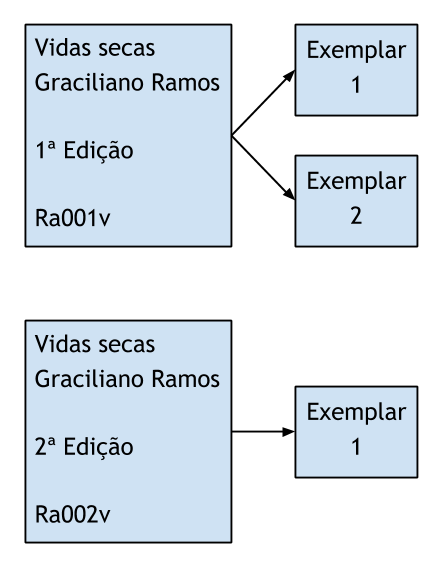
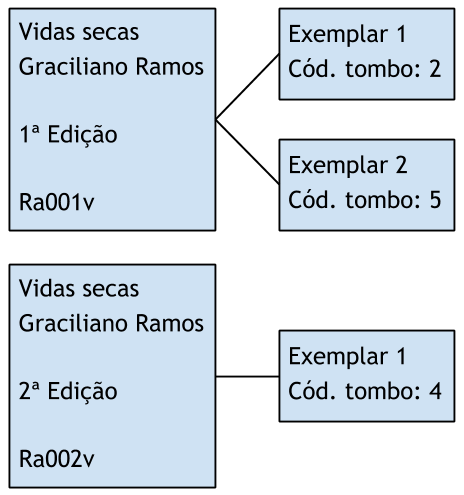
changed figure to describe the new tombo way and some Chris' fixes.

diff --git a/mono.tex b/mono.tex
@@ -312,9 +312,9 @@ Houve uma sobrecarga de tempo considerável nesta tarefa devido a uma falha no f
 \caption{Ilustração do modelo antigo de cadastro de exemplares da mesma obra.\label{tombo-antigo}}
 \end{figure}
 
-No entanto, percebeu-se durante o desenvolvimento do módulo que esta abordagem seria problemática por não dar ao aluno a escolha de qual edição da obra reservar. Além disso ela complicaria a organização da biblioteca física, pois o bibliotecário, ao ver apenas o código na lombada do livro, teria a falsa impressão de que existia uma relação de ordem entre os exemplares ao posicionar os livros em uma estante (o que não é necessariamente verdade), tendo dificuldade para separá-los por critérios mais relevantes, como volume e edição.
+No entanto, percebeu-se durante o desenvolvimento do módulo que esta abordagem seria problemática por não dar ao aluno a escolha de qual edição da obra reservar. Além disso, a abordagem anterior pode complicar a organização das obras na estante. No exemplo da Figura \ref{tombo-antigo}, o bibliotecário teria a falsa impressão de que existe uma relação de ordem entre os exemplares, devido à indexação final do código. Entretanto, é mais útil manter o acervo agrupado por edições ou volume da obra, e não ordenado por este código.
 
-Decidiu-se, então, considerar outras propriedades de uma publicação para definir a sua unicidade, sendo estas a editora, o ano de publicação, a edição e o volume. O formato do número de chamada continuou sendo o mesmo (duas letras do sobrenome do autor, três dígitos e uma letra do título da obra), no entanto a sequência de dígitos é única para a combinação da parte do código composta por caracteres com as quatro propriedades mencionadas acima. O código de tombo passou a ser uma entidade independente e é representada por um número inteiro. Este número é gerado pelo \textit{Drupal} no cadastro da publicação e indica o índice da página que representa o exemplar no conjunto de todas as páginas do sistema.  Isto é, o exemplar com código de tombo i é representado pela i-ésima página criada no sistema. A Figura \ref{tombo-novo} ilustra a mesma situação de cadastro usada como exemplo.
+A fim de se corrigir os problemas encontrados, duas ações foram tomadas. A primeira ação foi redefinir os critérios de unicidade de uma publicação. A partir de um conjunto mais amplo de características de uma obra, um \textit{número de chamada} é criado para cada publicação, e cada exemplar pertencente a uma publicação recebe um \textit{código de tombo} diferente. A nova regra de unicidade de uma obra agora inclui, a editora, o ano de publicação, e edição e o volume, além de título e nome do autor, que já eram considerados. A segunda ação foi separar por completo o \textit{número de chamada} e o \textit{código de tombo}, e não mais apresentá-lo na forma concatenada na lombada do livro. O formato do número de chamada continuou sendo o mesmo (duas letras do sobrenome do autor, três dígitos e uma letra do título da obra). O código de tombo continua sendo representado por número inteiro, mas é gerado de forma diferente. Na plataforma \textit{Drupal}, cada página de conteúdo criada recebe um identificador. No caso específico da página em questão representar um exemplar, esse identificador é também utilizado como código de tombo. Uma vez que o \textit{Drupal} provê um identificador de página único e autoincrementado, tem-se a garantia de não haver conflito entre códigos de tombo. A Figura \ref{tombo-novo} e a Tabela \ref{tabela-tombo-novo} ilustram a mesma situação de cadastro utilizada no exemplo anterior.
 
 \begin{figure}[pbth!]
 \centering
@@ -322,7 +322,19 @@ Decidiu-se, então, considerar outras propriedades de uma publicação para defi
 \caption{Ilustração do modelo novo de cadastro de exemplares da mesma obra.\label{tombo-novo}}
 \end{figure}
 
-Por não ser possível prever o código de tombo com a abordagem adotada, os valores não foram adicionados na Figura \ref{tombo-novo}.
+\begin{table}[hc]
+\centering
+\caption{Conteúdos gerados na plataforma \textit{Drupal} seguindo a Figura \ref{tombo-novo}.\label{tabela-tombo-novo}}
+\begin{tabular}{llll}
+\hline
+\# página & Título                                & Tipo       & Data de criação  \\ \hline
+5         & Exemplar 2 de Vidas secas (1ª edição) & Exemplar   & 2015/10/31 12:58 \\ \hline
+4         & Exemplar 1 de Vidas secas (2ª edição) & Exemplar   & 2015/10/30 10:16 \\ \hline
+3         & Vidas secas (2ª edição)               & Publicação & 2015/10/30 10:16 \\ \hline
+2         & Exemplar 1 de Vidas secas (1ª edição) & Exemplar   & 2015/10/28 18:38 \\ \hline
+1         & Vidas secas (1ª edição)               & Publicação & 2015/10/28 18:38 \\ \hline
+\end{tabular}
+\end{table}
 
 
 \subsubsection{Adaptação de ferramenta para importação em lote de publicações}
